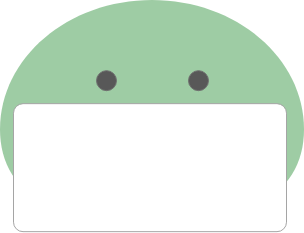
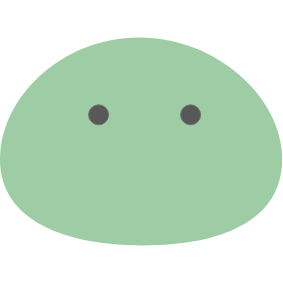
feat(image): changed character images
キャラクターの画像を最新のものに修正。
また、元画像を正方形にしたことで、
NextjsのImageコンポーネントの画像サイズ指定も
正方形になるように修正。

diff --git a/src/pages/index.tsx b/src/pages/index.tsx
@@ -47,8 +47,10 @@ const IndexPage: React.FC<Props> = ({
       <NavBarHome />
       <TopicContainer>
         <SectionTitle>
-          <SectionImage src={imagePath.character.yellow} height={50} width={80} objectFit="contain" objectPosition="center left" />
-          <div>注目の話題</div>
+          <SectionImageContainer>
+            <Image src={imagePath.character.yellow} height={64} width={64} objectFit="contain" objectPosition="center left" />
+          </SectionImageContainer>
+          <div>ワダイな話題</div>
         </SectionTitle>
         <Container>
           <TopicList topics={pickup.topics} pickup={pickup.main} />
@@ -56,7 +58,9 @@ const IndexPage: React.FC<Props> = ({
       </TopicContainer>
       <TopicContainer color="#E5F6FB">
         <SectionTitle>
-          <SectionImage src={imagePath.character.green} height={50} width={80} objectFit="contain" objectPosition="center left" />
+          <SectionImageContainer>
+            <Image src={imagePath.character.pink} height={64} width={64} objectFit="contain" objectPosition="center left" />
+          </SectionImageContainer>
           <div>最新の話題</div>
         </SectionTitle>
         <Container>
@@ -82,15 +86,24 @@ const SectionTitle = styled.div`
   display: flex;
   font-weight: bold;
   font-size: 24px;
+  flex-direction: column;
   margin: 32px 0;
   text-align: center;
-  justify-content: start;
+  justify-content: center;
   width: 100%;
+  
+  & > div:last-child {
+    margin-top: 16px;
+  }
 `;
 
-const SectionImage = styled(Image)`
-  height: 48px;
-  margin-right: 16px;
+const SectionImageContainer = styled.div`
+  display: flex;
+  justify-content: center;
+  align-items: center;
+  background-color: white;
+  padding: 16px;
+  border-radius: 50%;
 `;
 
 const ShowMoreButton = styled(Button)`

diff --git a/src/components/login/LoginDialog.tsx b/src/components/login/LoginDialog.tsx
@@ -7,7 +7,7 @@ import { imagePath } from 'src/components/constants/imagePath';
 export const LoginDialog = () => (
   <DialogContainer>
     <TitleContainer>
-      <Image alt="" src={imagePath.character.blue} height={60} width={100} objectFit="contain" />
+      <Image alt="" src={imagePath.character.blue} height={100} width={100} objectFit="contain" />
       <h3>おもちゃっとへようこそ！</h3>
     </TitleContainer>
     <GoogleLoginButton />

diff --git a/src/components/navbar/NavBar.tsx b/src/components/navbar/NavBar.tsx
@@ -41,7 +41,7 @@ export const NavBar: React.FC = ({ children }) => {
       <NavMainContainer>
         <Link href={rootPath.index}>
           <NavTitleContainer>
-            <Image src={imagePath.character.blue} height={24} width={40} objectFit="contain" />
+            <Image src={imagePath.character.blue} height={32} width={32} objectFit="contain" />
             <NavTitle>おもちゃっと</NavTitle>
           </NavTitleContainer>
         </Link>

diff --git a/src/components/constants/imagePath.ts b/src/components/constants/imagePath.ts
@@ -3,6 +3,7 @@ export const imagePath = {
     blue: '/images/character_blue.png',
     yellow: '/images/character_yellow.png',
     green: '/images/character_green.png',
+    pink: '/images/character_pink.png',
   },
   topic: {
     thumbnailTemplate: '/images/topic_template.png',
